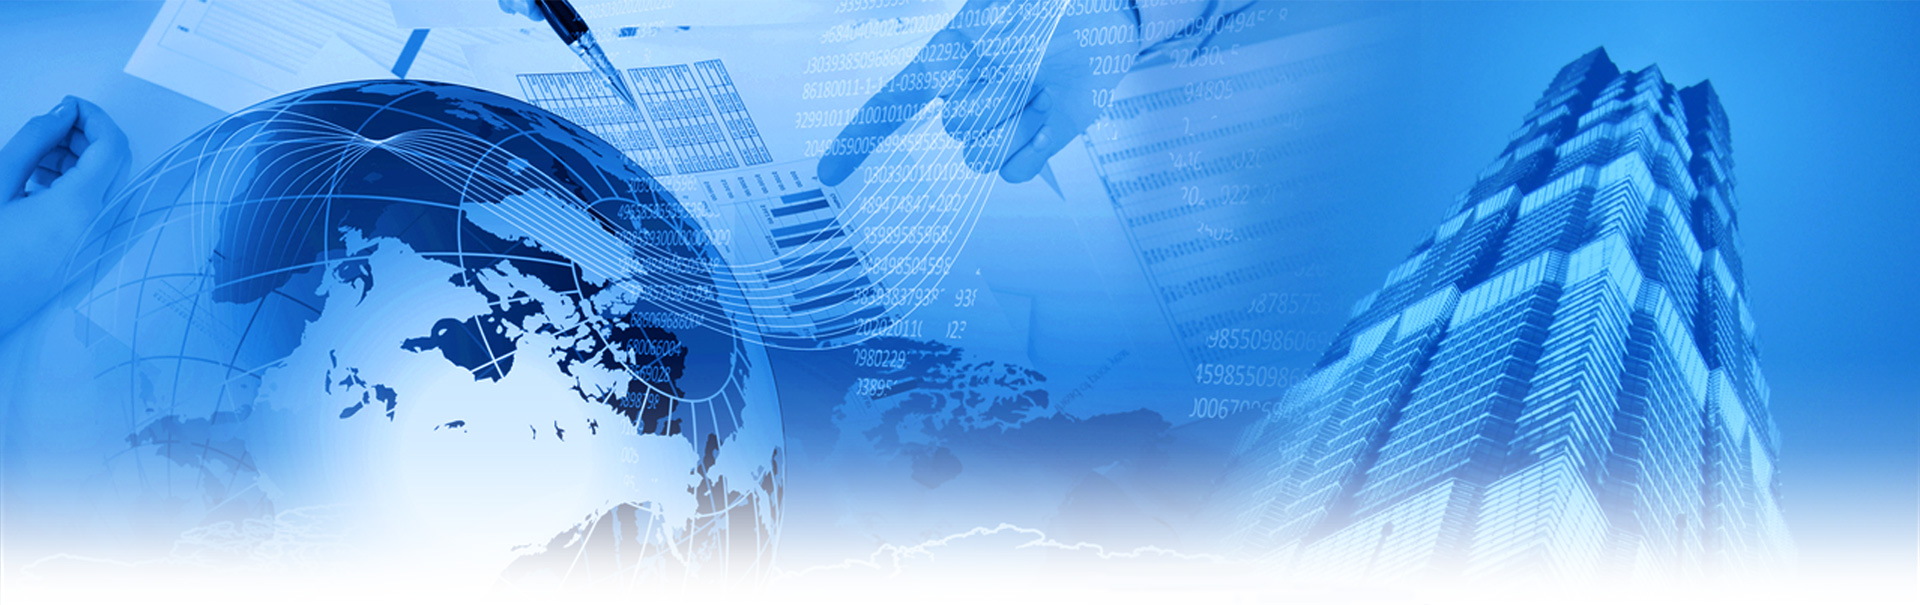
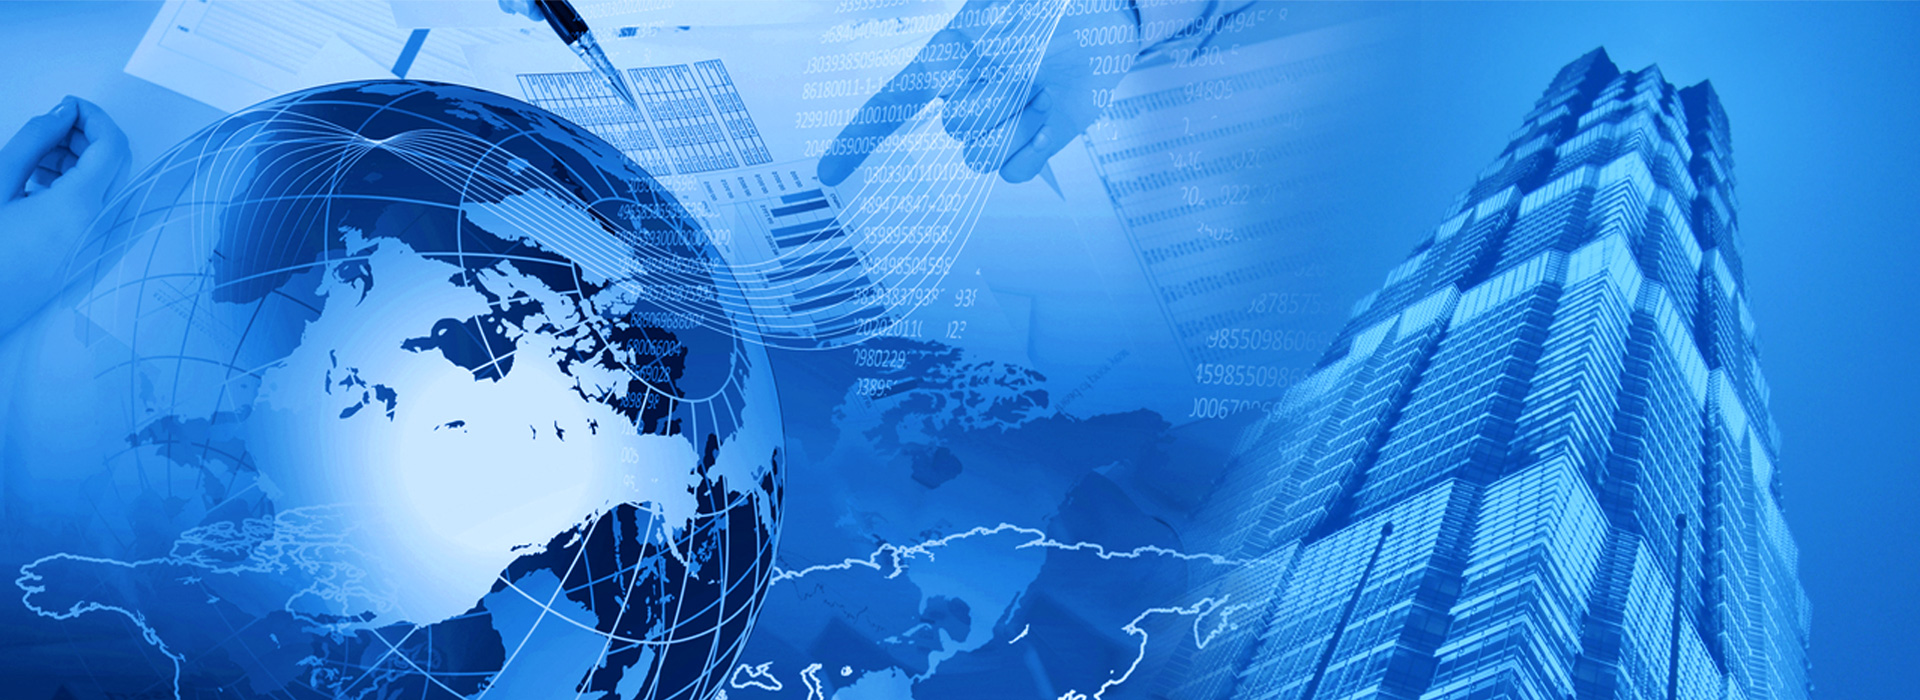
ad paralax to top section

diff --git a/sass/style_main.scss b/sass/style_main.scss
@@ -19,7 +19,7 @@
 
 /* paralax */
 
-.parallax{position: absolute;width: 100%;left: 0;right: 0;top: 0;bottom: 0;
+.parallax,.parallaxmin{position: absolute;width: 100%;left: 0;right: 0;top: 0;bottom: 0;
     img{position: absolute;left: 50%;transform:translate(-50.1%, -1%);top: 0;transition:top ease-out .4s;}
 }
 
@@ -79,7 +79,7 @@
 }
 
 
-.functional-index{background-image:url(../images/functional-index-background.png);background-repeat: no-repeat;background-attachment:fixed;background-position: center top;padding-top: 53px;padding-bottom: 91px;margin-top: -99px;position: relative;
+.functional-index{background-image:url(../images/functional-index-background.png);background-repeat: no-repeat;background-attachment:fixed;background-position: center top;padding-top: 53px;padding-bottom: 91px;margin-top: -29px;position: relative;
     //&:after{width: 101%;height: 94px;background: url('../images/doneproject_top_line.png') center center no-repeat;left: -11px;content: '';z-index: 1;position: absolute;}
     .functional-way-title{text-align: right;height: 72px;margin-bottom: 1px;
         >a, >span{background-color: transparent;color:#d92819;font-size: 27px;font-family: 'PT Sans Narrow', sans-serif;vertical-align: top;line-height: 1.2;padding-top: 9px;}
@@ -105,8 +105,10 @@
 
 /* specialization */
 
-.specialization-main{position: relative;top: -99px;}
-.specialization{background-image:url(../images/specialization-bg.jpg);background-position: center center;border-bottom: 12px solid #f2dc5e;padding: 0px 0 49px 0;position: relative;z-index: 1;padding-top: 102px;
+.specialization-main{position: relative;top: -15px;z-index: 3;overflow: hidden;
+    &:after{background: url('../images/specialization_white_line.png') center center no-repeat;height: 292px;width: 100%;content: '';position: absolute;top: -193px;left: 0;z-index: 3;}
+}
+.specialization{/*background-image:url(../images/specialization-bg.jpg);*/background-position: center center;border-bottom: 12px solid #f2dc5e;padding: 0px 0 49px 0;position: relative;z-index: 1;padding-top: 102px;
     .text-title-wrap{position: relative;top: -17px;margin-bottom: 38px;}
 
 }

diff --git a/sass/radion.scss b/sass/radion.scss
@@ -58,14 +58,16 @@ $yellow:#f2dc5e;
     .sendwich-icon{display: none;}
 }
 /*top section*/
-.top_section_wrap{min-height: 665px;background: url('../images/top_section_bg.png') center center no-repeat;position: relative;z-index: 2;background-size: cover;
+.top_section{position: relative;z-index: 1;}
+.top_section_wrap{min-height: 586px;/*background: url('../images/top_section_bg.png') center center no-repeat;*/position: relative;z-index: 2;background-size: cover;overflow: hidden;
      // &:before{content:'';display: block;position: absolute;width: 100%;height: 102px;background-image: url(../images/specialization-top-bg.png);z-index: 2;background-position: center center;bottom: -102px;z-index: 10;}
-
-    .top_title{text-align: right;color: white;text-shadow: 0px 0px 6px rgba(0, 0, 0, 0.72);padding-top: 121px;
+     &:after{background: url('../images/specialization_white_line.png') center center no-repeat;height: 292px;width: 100%;content: '';position: absolute;bottom: -83px;left: 0;z-index: 3;}
+    .mbox{z-index: 7;}
+    .parallax img{transform: translate(-50.1%, 0%);}
+    .top_title{text-align: right;color: white;text-shadow: 0px 0px 6px rgba(0, 0, 0, 0.72);padding-top: 135px;font-size: 14px;text-shadow: 2px 3px 6px rgba(0, 0, 0, 0.95);line-height: 23px;
         h2{font-size: 38px;font-family: 'Open Sans Condensed', sans-serif;font-weight: 700;}
-        .subtitle{font-size: 14px;text-shadow: 2px 3px 6px rgba(0, 0, 0, 0.95);padding-top: 11px;line-height: 23px;}
     }
-    .top_section_bottom{padding-top: 90px;
+    .top_section_bottom{padding-top: 112px;
         .top_section_item{float: left;width: 25%;}
         .top_section_item_wrap{width: 150px;height: 150px;margin: 0 auto;background-color: rgba(250,250,250, .6);border-radius: 50%;text-align: center;transition:all ease-out .2s;}
         .top_section_item_text{

diff --git a/css/radion.css b/css/radion.css
@@ -233,22 +233,54 @@
 }
 
 /*top section*/
+.top_section {
+  position: relative;
+  z-index: 1;
+}
+
 .top_section_wrap {
-  min-height: 665px;
-  background: url("../images/top_section_bg.png") center center no-repeat;
+  min-height: 586px;
+  /*background: url('../images/top_section_bg.png') center center no-repeat;*/
   position: relative;
   z-index: 2;
   -webkit-background-size: cover;
   -moz-background-size: cover;
   -o-background-size: cover;
   background-size: cover;
+  overflow: hidden;
+}
+
+.top_section_wrap:after {
+  background: url("../images/specialization_white_line.png") center center no-repeat;
+  height: 292px;
+  width: 100%;
+  content: '';
+  position: absolute;
+  bottom: -83px;
+  left: 0;
+  z-index: 3;
+}
+
+.top_section_wrap .mbox {
+  z-index: 7;
+}
+
+.top_section_wrap .parallax img {
+  -webkit-transform: translate(-50.1%, 0%);
+  -moz-transform: translate(-50.1%, 0%);
+  -ms-transform: translate(-50.1%, 0%);
+  -o-transform: translate(-50.1%, 0%);
+  transform: translate(-50.1%, 0%);
 }
 
 .top_section_wrap .top_title {
   text-align: right;
   color: white;
   text-shadow: 0px 0px 6px rgba(0, 0, 0, 0.72);
-  padding-top: 121px;
+  padding-top: 135px;
+  font-size: 14px;
+  text-shadow: 2px 3px 6px rgba(0, 0, 0, 0.95);
+  line-height: 23px;
 }
 
 .top_section_wrap .top_title h2 {
@@ -257,15 +289,8 @@
   font-weight: 700;
 }
 
-.top_section_wrap .top_title .subtitle {
-  font-size: 14px;
-  text-shadow: 2px 3px 6px rgba(0, 0, 0, 0.95);
-  padding-top: 11px;
-  line-height: 23px;
-}
-
 .top_section_wrap .top_section_bottom {
-  padding-top: 90px;
+  padding-top: 112px;
 }
 
 .top_section_wrap .top_section_bottom .top_section_item {

diff --git a/css/style_main.css b/css/style_main.css
@@ -51,7 +51,7 @@
 
 /* /titles */
 /* paralax */
-.parallax {
+.parallax, .parallaxmin {
   position: absolute;
   width: 100%;
   left: 0;
@@ -60,7 +60,7 @@
   bottom: 0;
 }
 
-.parallax img {
+.parallax img, .parallaxmin img {
   position: absolute;
   left: 50%;
   -webkit-transform: translate(-50.1%, -1%);
@@ -346,7 +346,7 @@
   background-position: center top;
   padding-top: 53px;
   padding-bottom: 91px;
-  margin-top: -99px;
+  margin-top: -29px;
   position: relative;
 }
 
@@ -464,11 +464,24 @@
 /* specialization */
 .specialization-main {
   position: relative;
-  top: -99px;
+  top: -15px;
+  z-index: 3;
+  overflow: hidden;
+}
+
+.specialization-main:after {
+  background: url("../images/specialization_white_line.png") center center no-repeat;
+  height: 292px;
+  width: 100%;
+  content: '';
+  position: absolute;
+  top: -193px;
+  left: 0;
+  z-index: 3;
 }
 
 .specialization {
-  background-image: url(../images/specialization-bg.jpg);
+  /*background-image:url(../images/specialization-bg.jpg);*/
   background-position: center center;
   border-bottom: 12px solid #f2dc5e;
   padding: 0px 0 49px 0;

diff --git a/js/scr.js b/js/scr.js
@@ -309,6 +309,8 @@ function parallaxScroll(){
 
     var scrolled = $(window).scrollTop();
     $('.parallax img').css('top',(0-(scrolled*0.12))+'px');
+
+    $('.parallaxmin img').css('top',(0-(scrolled*0.06))+'px');
 }
 //
 /* DOCUMENT READY  */
@@ -330,7 +332,7 @@ $(window).load(function(){
     oneHeightItems();
 
     $(window).bind('scroll', function(e){
-        parallaxScroll(); // radion
+        parallaxScroll();
     });
 
 

diff --git a/partials/topsection.php b/partials/topsection.php
@@ -1,5 +1,8 @@
 <div class="top_section">
     <div class="top_section_wrap">
+        <div class="parallaxmin">
+            <img src="images/top_section_v2.jpg" alt="" />
+        </div>
         <div class="mbox">
             <div class="top_title">
                 <h2>УПРАВЛЕНЧЕСКОЕ  КОНСУЛЬТИРОВАНИЕ</h2>

diff --git a/partials/specialization.php b/partials/specialization.php
@@ -1,4 +1,7 @@
 <div class="specialization-main">
+    <div class="parallax">
+        <img src="images/specialization-bg.jpg" alt="" />
+    </div>
     <div class="specialization">
         <div class="mbox">
 
